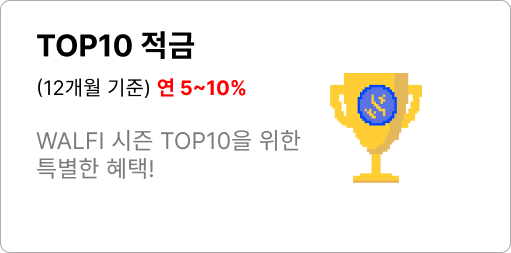
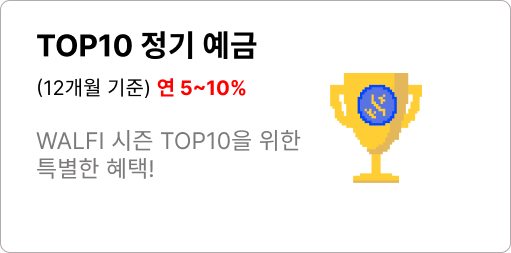
[기능] 예적금 전부 생성
- 예적금 생성 가능

Changed region(s): [[0.2642, 0.1107, 0.499, 0.249], [0.2642, 0.1383, 0.2935, 0.166]]

diff --git a/frontend/src/features/wallet/walletscreens/MakeAccount.js b/frontend/src/features/wallet/walletscreens/MakeAccount.js
@@ -5,11 +5,12 @@ import {
   TouchableOpacity,
   Text
  } from 'react-native';
-
+ import { GestureHandlerRootView } from 'react-native-gesture-handler';
 import JumpAccount from '../../../assets/wallet/JumpAccount.png';
 import BaseballAccount from '../../../assets/wallet/BaseballAccount.png';
 import LevelupAccount from '../../../assets/wallet/LevelupAccount.png'
 import TopTenAccount from '../../../assets/wallet/TopTenAccount.png'
+import BattleAccount from '../../../assets/wallet/BattleAccount.png';
 
 import { RFPercentage } from "react-native-responsive-fontsize";
 import {Background} from '../walletcomponents/CommonStyle';
@@ -19,6 +20,7 @@ import { CardInfo } from '../walletcomponents/walletcards/CardInfo';
 import { SCREEN_HEIGHT,SCREEN_WIDTH } from '../walletcomponents/ScreenSize';
 import axios from '../../../common/http-common';
 import { useSelector } from 'react-redux';
+import { ScrollView } from 'react-native-gesture-handler';
 
 export default function MakeAccount({ navigation }){
   const {userId, mainAccount} = useSelector(state=>state.auth)
@@ -28,29 +30,49 @@ export default function MakeAccount({ navigation }){
       userId
     }
     let response;
-    if(type==='Levelup'){
-      response = await axios.post('character/maxcharacter', data);
-    }else if(type==='Top10'){
-      response = await axios.post('branch/getmanagernum',data);
+    try{
+      if(type==='Levelup'){
+        response = await axios.post('character/maxcharacter', data);
+      }else if(type==='Top10'){
+        response = await axios.post('branch/getmanagernum',data);
+      }else if(type==='Battle'){
+        response = await axios.post(`battle/getbattlecount?${userId}`)
+      }else{
+        return ;
+      }
+      navigation.navigate('MakeDeposit',{type, data:response.data.data})
+    }catch(err){
+      console.log('예금 생성 실패')
     }
-    navigation.navigate('MakeDeposit',{type, data:response.data.data})
   }
+
+  //DOM에 때려 박은거 바꾸기 
   return(
-    <View style={Background.background} >
-      <View style={{width:'90%',}}>
-        <Text style={{fontSize:RFPercentage(3), fontWeight:'bold'}}>적금</Text>
-      </View>
-      <TouchableOpacity onPress={()=>onPress('Levelup')}>
-        <Image source={LevelupAccount} style={{width:SCREEN_WIDTH*0.9, height:SCREEN_HEIGHT*0.25, resizeMode:'contain'}}/>
-      </TouchableOpacity>
-      <TouchableOpacity onPress={()=>onPress('Top10')}>
-        <Image source={TopTenAccount} style={{width:SCREEN_WIDTH*0.9, height:SCREEN_HEIGHT*0.25, resizeMode:'contain'}}/>
-      </TouchableOpacity>
-      <TouchableOpacity onPress={()=>navigation.navigate('MakeDeposit')}>
-        <Image source={JumpAccount} style={{width:SCREEN_WIDTH*0.9, height:SCREEN_HEIGHT*0.25, resizeMode:'contain'}}/>
-      </TouchableOpacity>
-      {/* <Image source={BaseballAccount} style={{width:'90%', resizeMode:'contain'}}/> */}
+    <GestureHandlerRootView style={Background.background} >
+      <ScrollView showsVerticalScrollIndicator={false}>
+        <View style={{width:'90%',}}>
+          <Text style={{fontSize:RFPercentage(3), fontWeight:'bold'}}>정기 예금</Text>
+        </View>
+        <TouchableOpacity onPress={()=>onPress('Levelup')}>
+          <Image source={LevelupAccount} style={{width:SCREEN_WIDTH*0.9, height:SCREEN_HEIGHT*0.25, resizeMode:'contain'}}/>
+        </TouchableOpacity>
+        <TouchableOpacity onPress={()=>onPress('Top10')}>
+          <Image source={TopTenAccount} style={{width:SCREEN_WIDTH*0.9, height:SCREEN_HEIGHT*0.25, resizeMode:'contain'}}/>
+        </TouchableOpacity>
+        <TouchableOpacity onPress={()=>onPress('Battle')}>
+          <Image source={BattleAccount} style={{width:SCREEN_WIDTH*0.9, height:SCREEN_HEIGHT*0.25, resizeMode:'contain'}}/>
+        </TouchableOpacity>
+        <View style={{width:'90%',}}>
+          <Text style={{fontSize:RFPercentage(3), fontWeight:'bold'}}>적금</Text>
+        </View>
+        <TouchableOpacity onPress={()=>navigation.navigate('WalletHome')}>
+          <Image source={JumpAccount} style={{width:SCREEN_WIDTH*0.9, height:SCREEN_HEIGHT*0.25, resizeMode:'contain'}}/>
+        </TouchableOpacity>
+        <TouchableOpacity onPress={()=>navigation.navigate('WalletHome')}>
+          <Image source={BaseballAccount} style={{width:SCREEN_WIDTH*0.9, height:SCREEN_HEIGHT*0.25, resizeMode:'contain'}}/>
+        </TouchableOpacity>
+      </ScrollView>
       <GoFight/>
-    </View>
+    </GestureHandlerRootView>
   )
 }

diff --git a/frontend/src/features/wallet/walletscreens/MakeDeposit.js b/frontend/src/features/wallet/walletscreens/MakeDeposit.js
@@ -21,6 +21,9 @@ const Deposit = {
   },
   'Top10':{
     'message': '랭킹 + '
+  },
+  'Battle':{
+    'message': ''
   }
 }
 
@@ -66,6 +69,7 @@ export default function MakeDetail({route,navigation}){
     const response = axios.post('product/create', data)
     .then(res=>navigation.navigate('WalletHome'));
   }
+
   return(
     <View style={{...Background.background, padding:'10%', justifyContent:'none'}}>
       <View style={styles.titleContent}>
